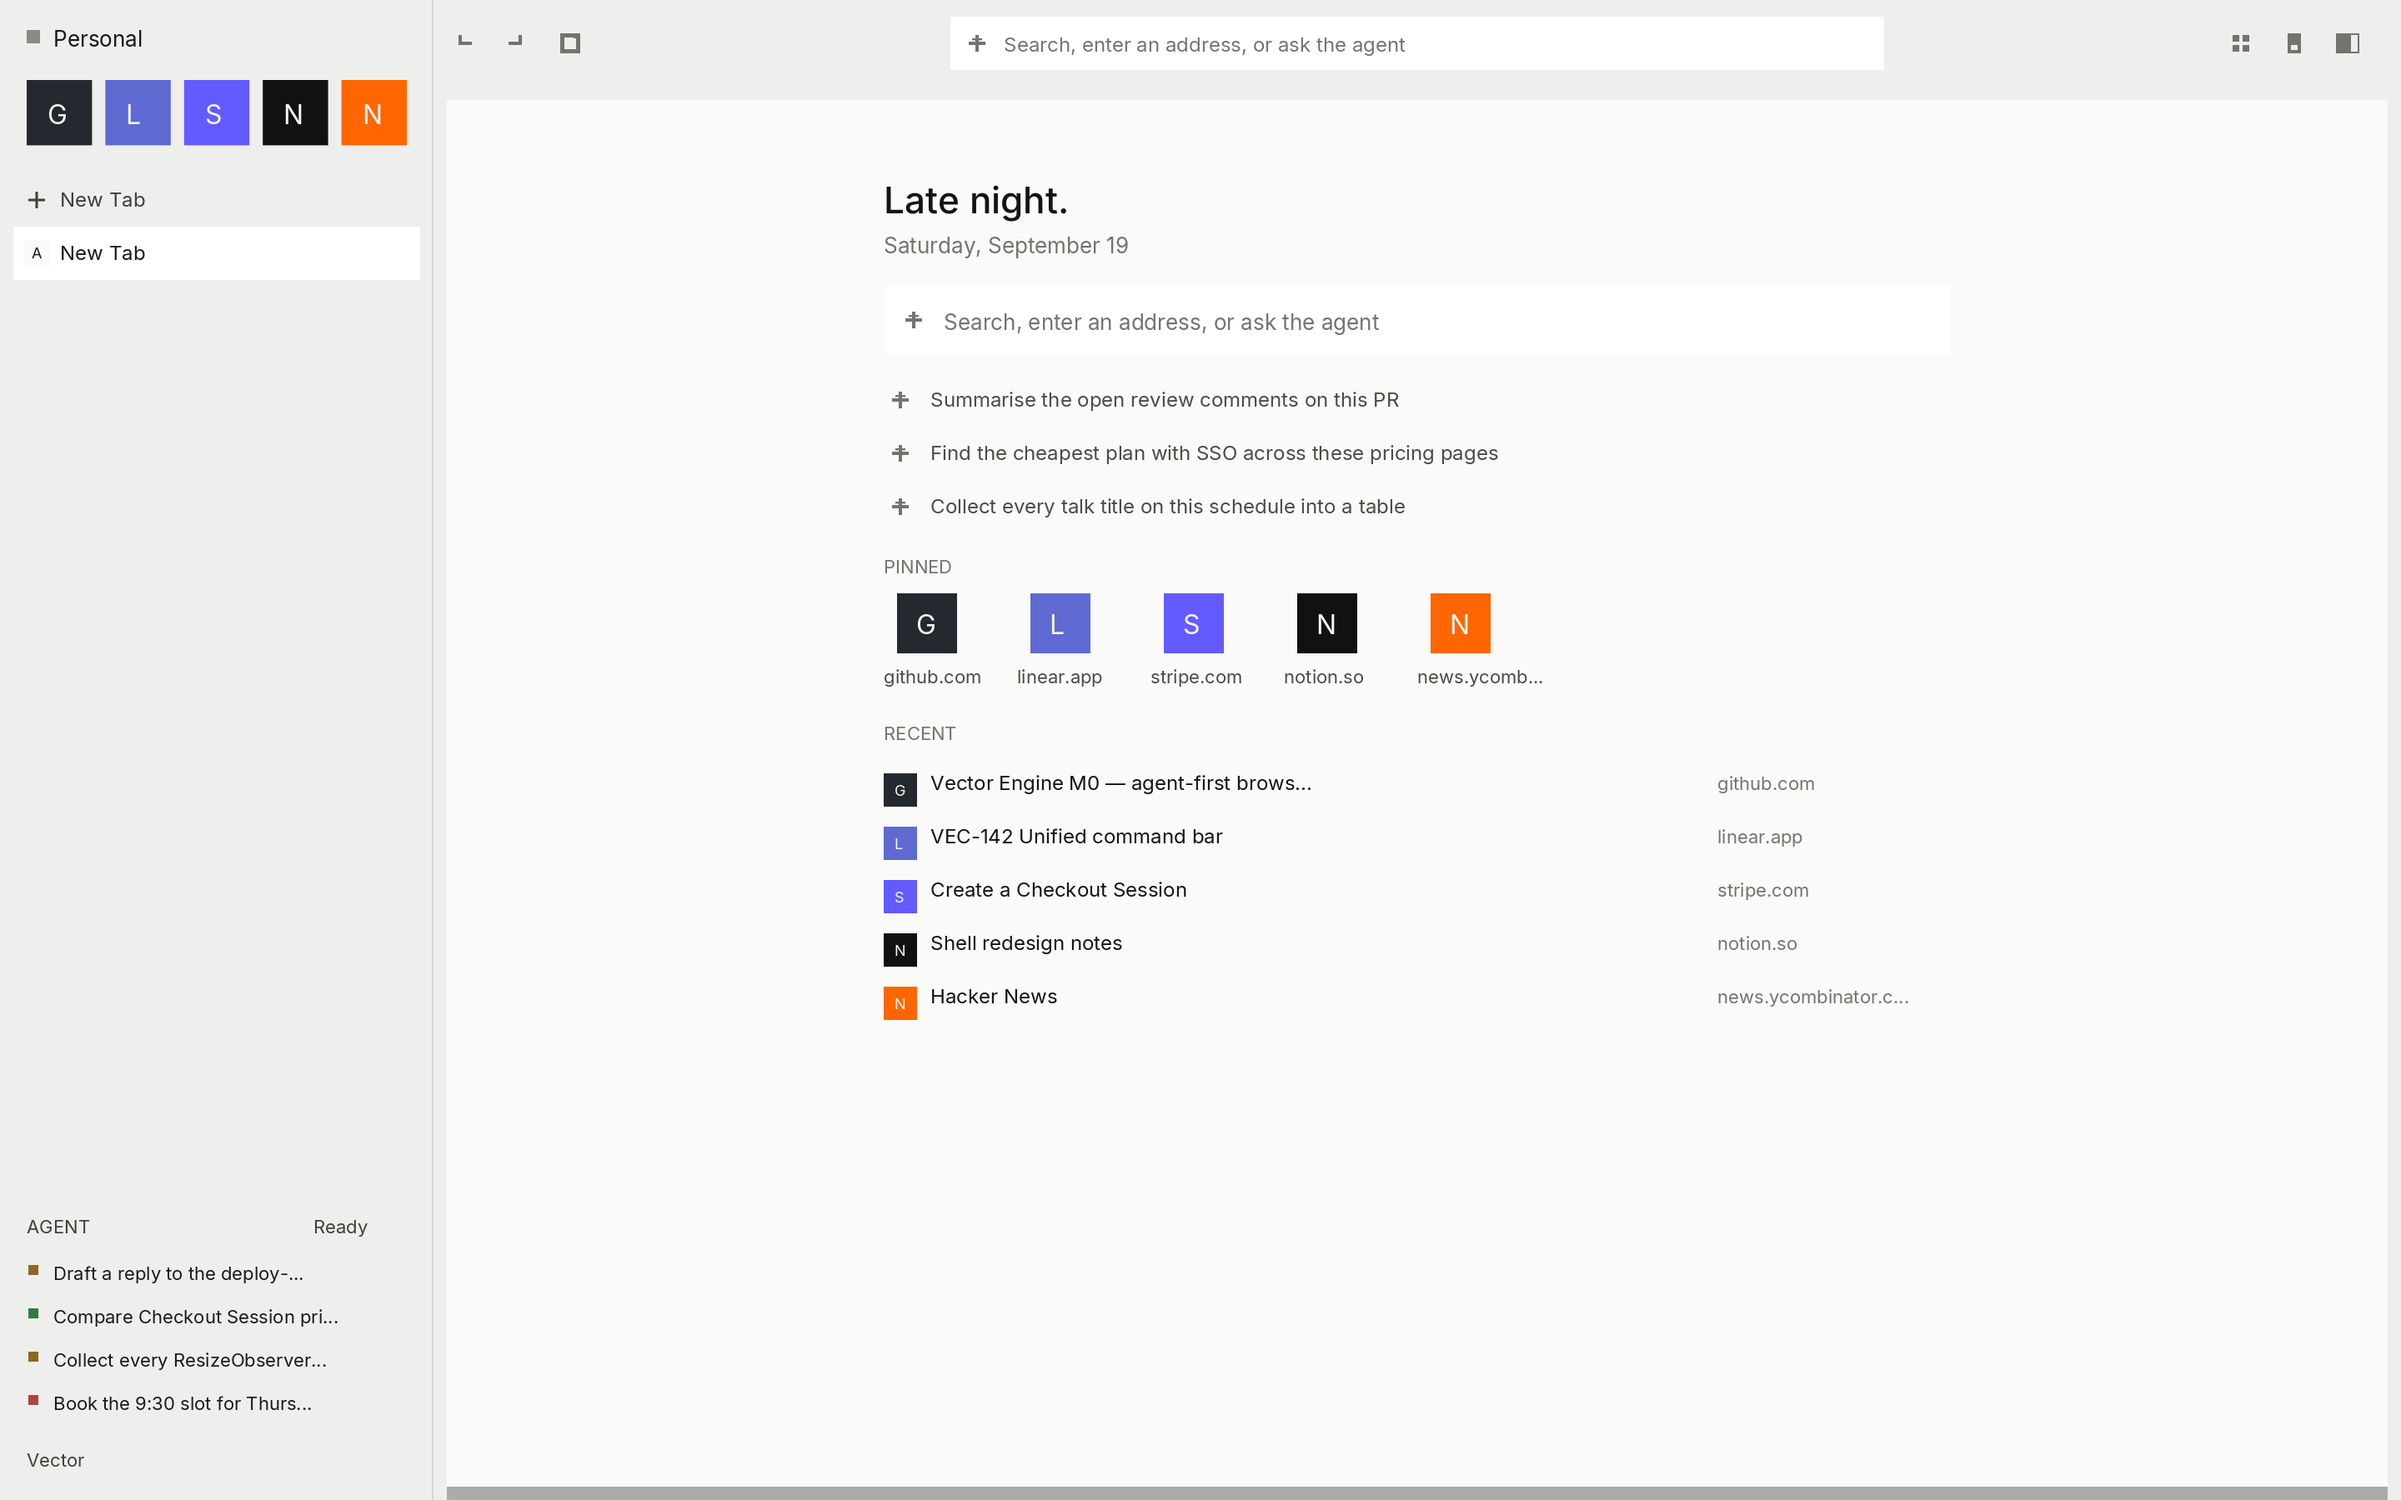
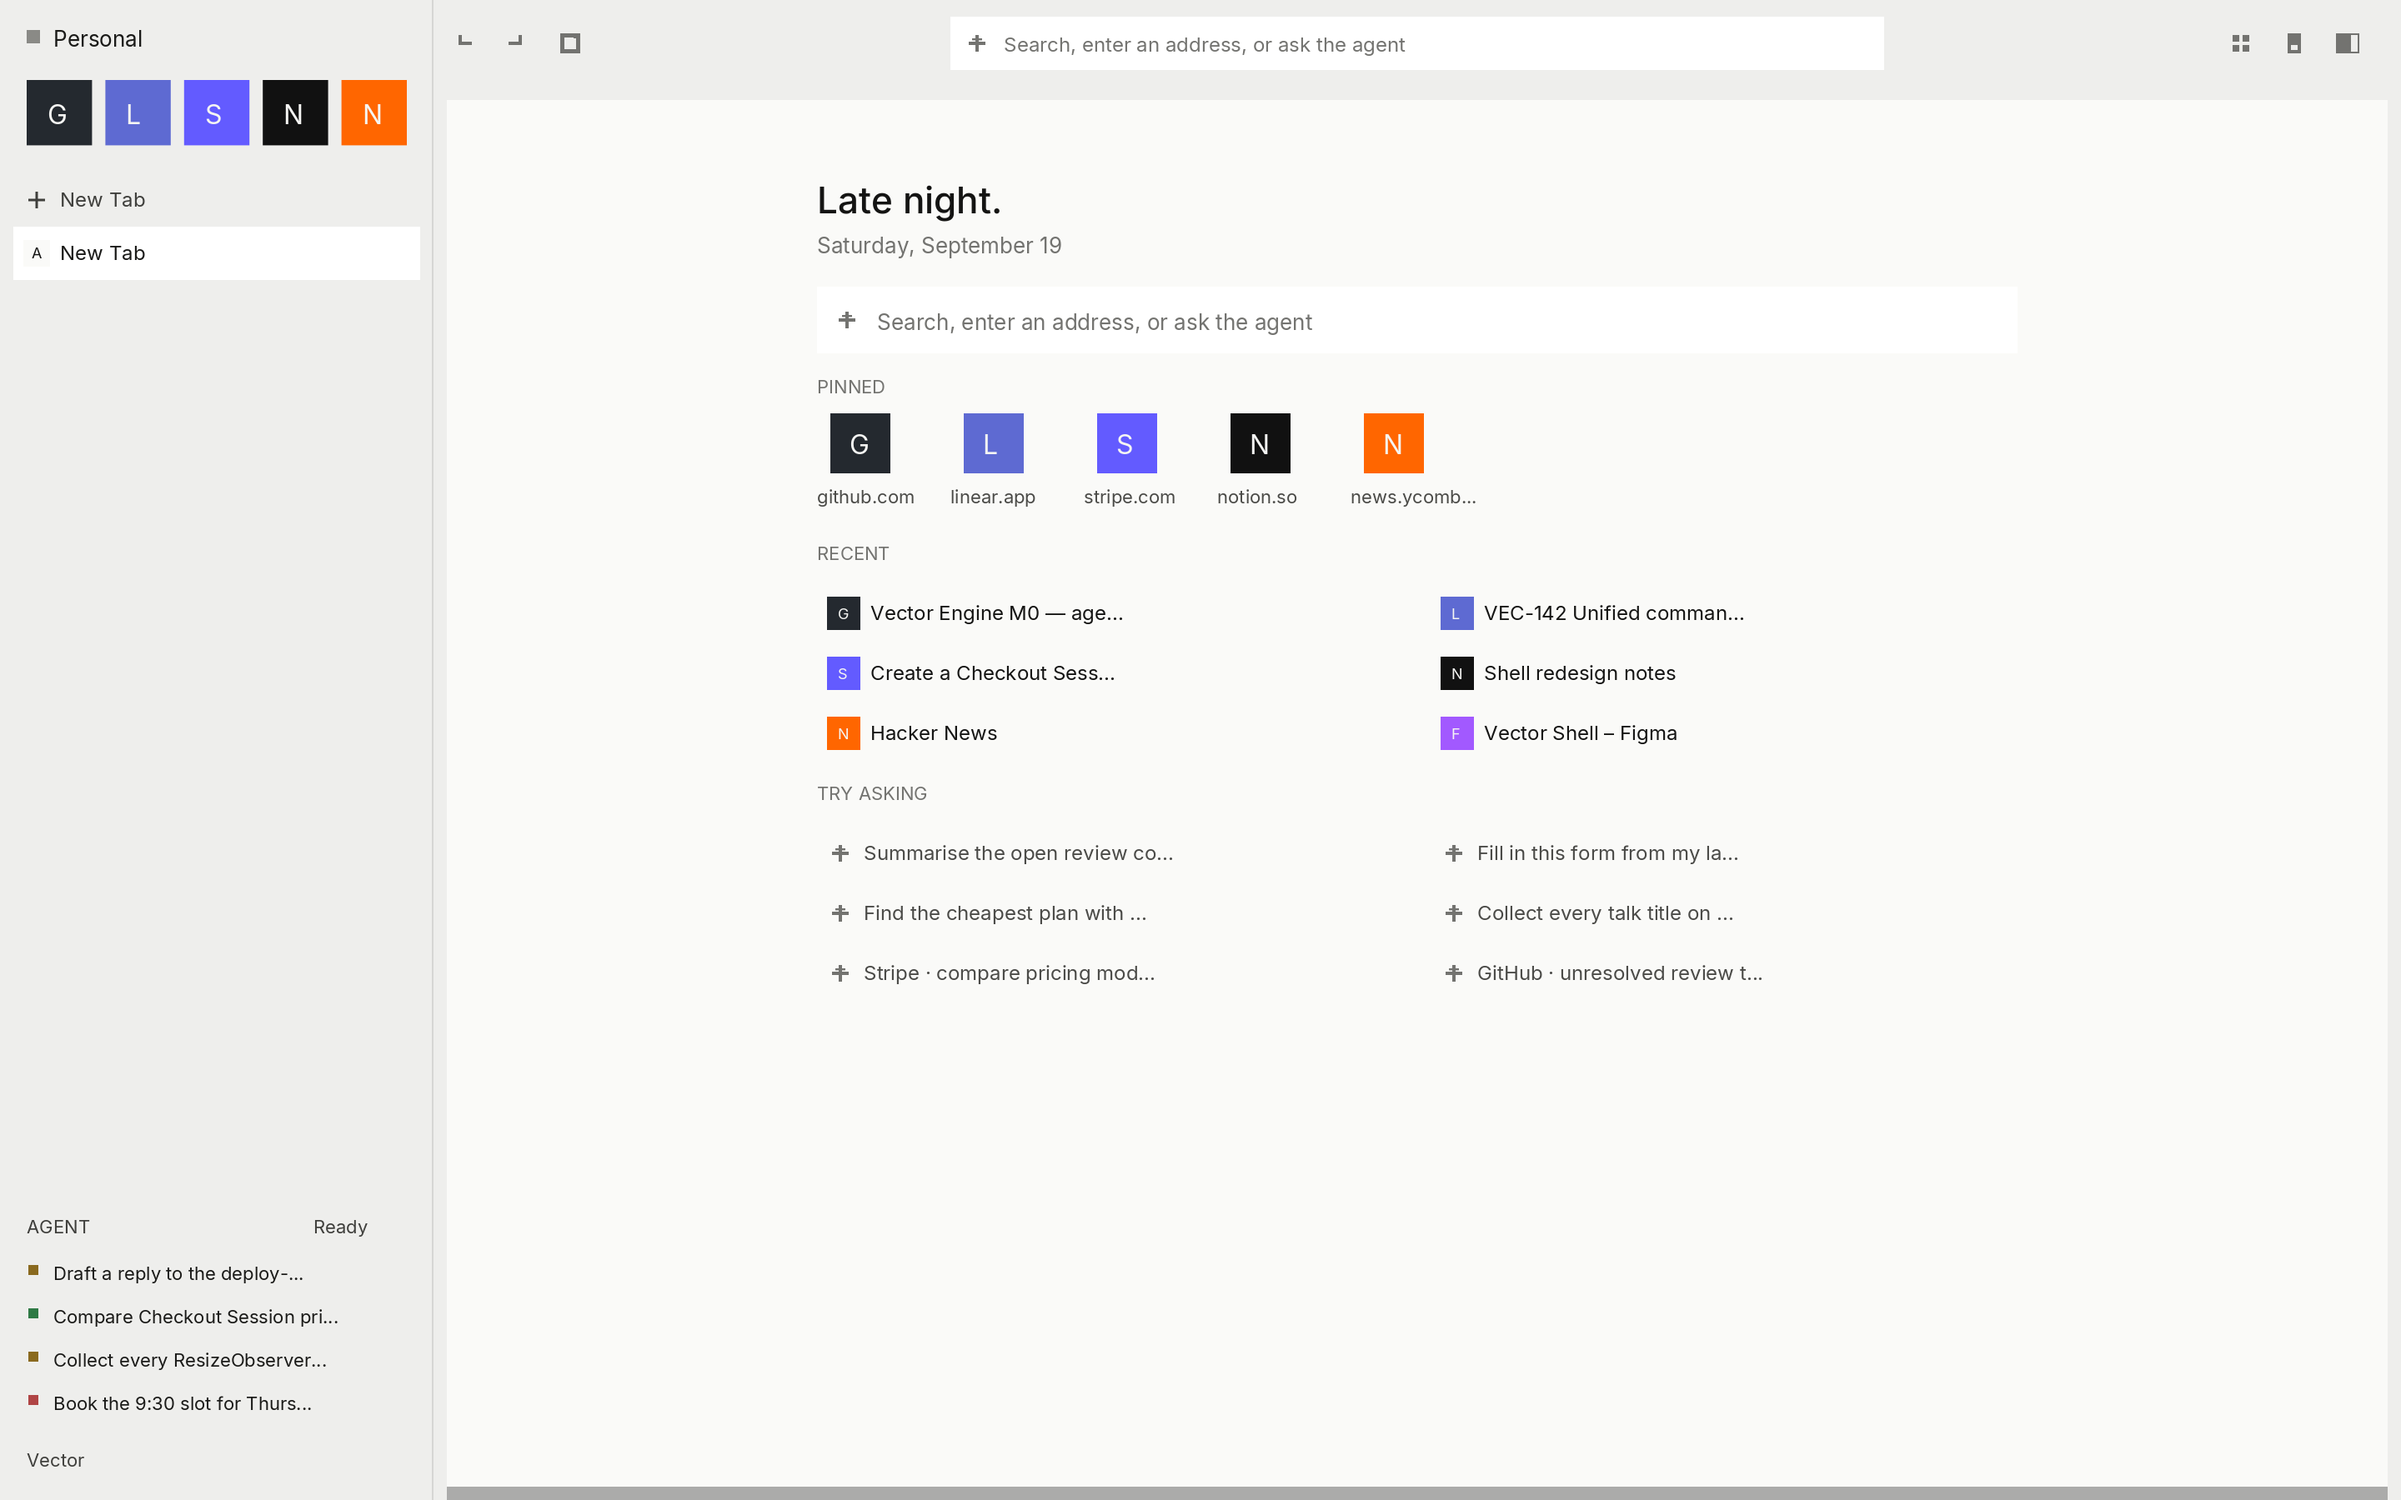
Lay out start-page Recent and Try Asking in two columns.
Matches Electron 01/08: pill rows for recents and six sparkle prompts
in a 2-up grid under PINNED tiles. Headed ve-shell --gui still types
into the shared NativeBrowser page.

diff --git a/engine/crates/ve-chrome/src/chrome.rs b/engine/crates/ve-chrome/src/chrome.rs
@@ -795,7 +795,7 @@ impl Chrome {
 
     fn paint_start_page(&self, list: &mut DisplayList, stage: Rect) {
         let t = &self.tokens;
-        let inner_w = (stage.width() - 80.0).clamp(280.0, 640.0);
+        let inner_w = (stage.width() - 80.0).clamp(280.0, 720.0);
         let x0 = stage.x() + ((stage.width() - inner_w) / 2.0).max(24.0);
         let hour = current_hour();
         let greeting = if hour < 5 {
@@ -835,17 +835,6 @@ impl Chrome {
             t.ink_2,
         );
         y += 52.0;
-        let prompts = [
-            "Summarise the open review comments on this PR",
-            "Find the cheapest plan with SSO across these pricing pages",
-            "Collect every talk title on this schedule into a table",
-        ];
-        for prompt in prompts {
-            icon_sparkle(list, x0 + 10.0, y + 16.0, t.ink_2);
-            self.label(list, Point::new(x0 + 28.0, y + 20.0), prompt, 12.0, t.ink_1);
-            y += 32.0;
-        }
-        y += 12.0;
         let pins = self.active_pins();
         let favs: Vec<(String, String)> = if pins.is_empty() {
             self.bookmarks.iter().take(5).cloned().collect()
@@ -885,8 +874,15 @@ impl Chrome {
         if !self.history.is_empty() {
             self.label(list, Point::new(x0, y + 12.0), "RECENT", 11.0, t.ink_2);
             y += 28.0;
-            for (url, title) in self.history.iter().take(5) {
-                self.tile_face(list, x0, y + 4.0, 20.0, 6.0, url);
+            let gap = 16.0;
+            let col_w = ((inner_w - gap) / 2.0).max(160.0);
+            for (i, (url, title)) in self.history.iter().take(6).enumerate() {
+                let col = i % 2;
+                let row = i / 2;
+                let x = x0 + col as f32 * (col_w + gap);
+                let yy = y + row as f32 * 36.0;
+                fill_round(list, Rect::new(x, yy, col_w, 32.0), 16.0, t.bg_2);
+                self.tile_face(list, x + 6.0, yy + 6.0, 20.0, 6.0, url);
                 let label = if title.is_empty() {
                     host_of(url)
                 } else {
@@ -894,20 +890,40 @@ impl Chrome {
                 };
                 self.label(
                     list,
-                    Point::new(x0 + 28.0, y + 14.0),
-                    &truncate(&label, 36),
+                    Point::new(x + 32.0, yy + 20.0),
+                    &truncate(&label, 22),
                     12.0,
                     t.ink_0,
                 );
-                self.label(
-                    list,
-                    Point::new(x0 + inner_w - 140.0, y + 14.0),
-                    &truncate(&host_of(url), 18),
-                    11.0,
-                    t.ink_2,
-                );
-                y += 32.0;
             }
+            y += ((self.history.len().min(6) + 1) / 2) as f32 * 36.0 + 8.0;
+        }
+        let prompts = [
+            "Summarise the open review comments on this PR",
+            "Fill in this form from my last order",
+            "Find the cheapest plan with SSO across these pricing pages",
+            "Collect every talk title on this schedule into a table",
+            "Stripe · compare pricing modes",
+            "GitHub · unresolved review threads",
+        ];
+        self.label(list, Point::new(x0, y + 12.0), "TRY ASKING", 11.0, t.ink_2);
+        y += 28.0;
+        let gap = 16.0;
+        let col_w = ((inner_w - gap) / 2.0).max(160.0);
+        for (i, prompt) in prompts.iter().enumerate() {
+            let col = i % 2;
+            let row = i / 2;
+            let x = x0 + col as f32 * (col_w + gap);
+            let yy = y + row as f32 * 36.0;
+            fill_round(list, Rect::new(x, yy, col_w, 32.0), 16.0, t.bg_2);
+            icon_sparkle(list, x + 14.0, yy + 16.0, t.ink_2);
+            self.label(
+                list,
+                Point::new(x + 28.0, yy + 20.0),
+                &truncate(prompt, 28),
+                12.0,
+                t.ink_1,
+            );
         }
     }
 
@@ -1860,11 +1876,12 @@ mod tests {
         assert!(
             texts
                 .iter()
-                .any(|t| t.contains("Summarise the open review comments")),
+                .any(|t| t.contains("Summarise the open review")),
             "{texts:?}"
         );
         assert!(texts.iter().any(|t| *t == "PINNED" || *t == "FAVOURITES"), "{texts:?}");
         assert!(texts.iter().any(|t| *t == "RECENT"), "{texts:?}");
+        assert!(texts.iter().any(|t| *t == "TRY ASKING"), "{texts:?}");
         assert!(texts.iter().any(|t| *t == "G" || *t == "L" || *t == "Y"), "{texts:?}");
         assert!(texts.iter().any(|t| t.contains("Hacker News")), "{texts:?}");
         assert!(texts.iter().any(|t| t.contains("github.com")), "{texts:?}");

diff --git a/engine/crates/ve-api/src/shell.rs b/engine/crates/ve-api/src/shell.rs
@@ -3259,6 +3259,7 @@ mod tests {
             "{texts:?}"
         );
         assert!(texts.iter().any(|t| t == "RECENT"), "{texts:?}");
+        assert!(texts.iter().any(|t| t == "TRY ASKING"), "{texts:?}");
         assert!(
             texts
                 .iter()

diff --git a/docs/ROADMAP.md b/docs/ROADMAP.md
@@ -145,7 +145,7 @@ Goal: measurement exists, the cheapest large defects are gone, and no claim in t
 | ID | Item | WS | Status | Evidence |
 |---|---|---|---|---|
 | H2-A1 | Split `NativeBrowser` into `Browser` + `Window`; private windows via contexts | A | ☑ | `ve_api::NativeWindow` + `Browser` alias |
-| H2-A2 | `crates/ve-chrome` retained widgets; tokens + `workspace.ts` + `intent.ts` port | A | ☑ | Electron default `railOpen: false` + AGENT `recent_runs`; compact `command_pill_rect`; space-dot + pins + tab letters; 📁 Dev folder via `folders_in_space`/`tabs_in_folder`/`unfiled_tabs` (`sidebar_paints_dev_folder_then_unfiled_tabs`); start page `PINNED`/`RECENT` (`seed_design_reference`); `docs/ui/screenshots/ve-shell-start.png`; `docs/ui/screenshots/ve-shell-start-light.png` (`light_start_page_screenshot_matches_electron_08`); `docs/ui/screenshots/ve-shell-browse.png` (`browsing_sidebar_screenshot_matches_electron_03`); `ve-shell-gui.png` / palette / settings; `start_page_paints_greeting_and_prompts`; headed `live_os_window_and_mcp_share_one_page` |
+| H2-A2 | `crates/ve-chrome` retained widgets; tokens + `workspace.ts` + `intent.ts` port | A | ☑ | Electron default `railOpen: false` + AGENT `recent_runs`; compact `command_pill_rect`; space-dot + pins + tab letters; 📁 Dev folder (`folders_in_space`/`unfiled_tabs`); start page `PINNED` + 2-col `RECENT` + 2-col `TRY ASKING` matching 01/08 (`start_page_paints_greeting_and_prompts`); `docs/ui/screenshots/ve-shell-start.png`; `docs/ui/screenshots/ve-shell-start-light.png`; `docs/ui/screenshots/ve-shell-browse.png`; `ve-shell-gui.png` / palette / settings; headed `live_os_window_and_mcp_share_one_page` |
 | H2-A3 | `ve-shell-mac` (objc2): NSWindow, menus, IME, scroll phases, appearance | A | ☑ | `MacWindow::product` + objc2 `NSWindow`/menus/`effectiveAppearance` on macOS; `scroll_phase_from_nsevent` + `appearance_from_ns_name`; `test_double_covers_ime_scroll_appearance_menus` elsewhere |
 | H2-A4 | `ve-profile` (SQLite): history, bookmarks, session restore, downloads, find, zoom, cert interstitial, permission sheets | A | ☑ | `session_restore_reopens_tabs_after_restart`; `day_of_browsing_restores_tabs_history_bookmarks_zoom_find`; `docs/engine/evidence/day-of-browsing.json`; `find_bar_shows_match_count`; `cert_and_permission_sheets_persist_to_profile`; `Profile::open` rusqlite |
 | H2-C1 | `agent/machine.ts` pure reducer; coordinator &lt; 350 lines; ≥ 25 transition tests | C | ☑ | `coordinator.ts` 305 lines; `runCoordinatorLoop` applies `reduce`; `tests/unit/machine.test.ts` (26) |
